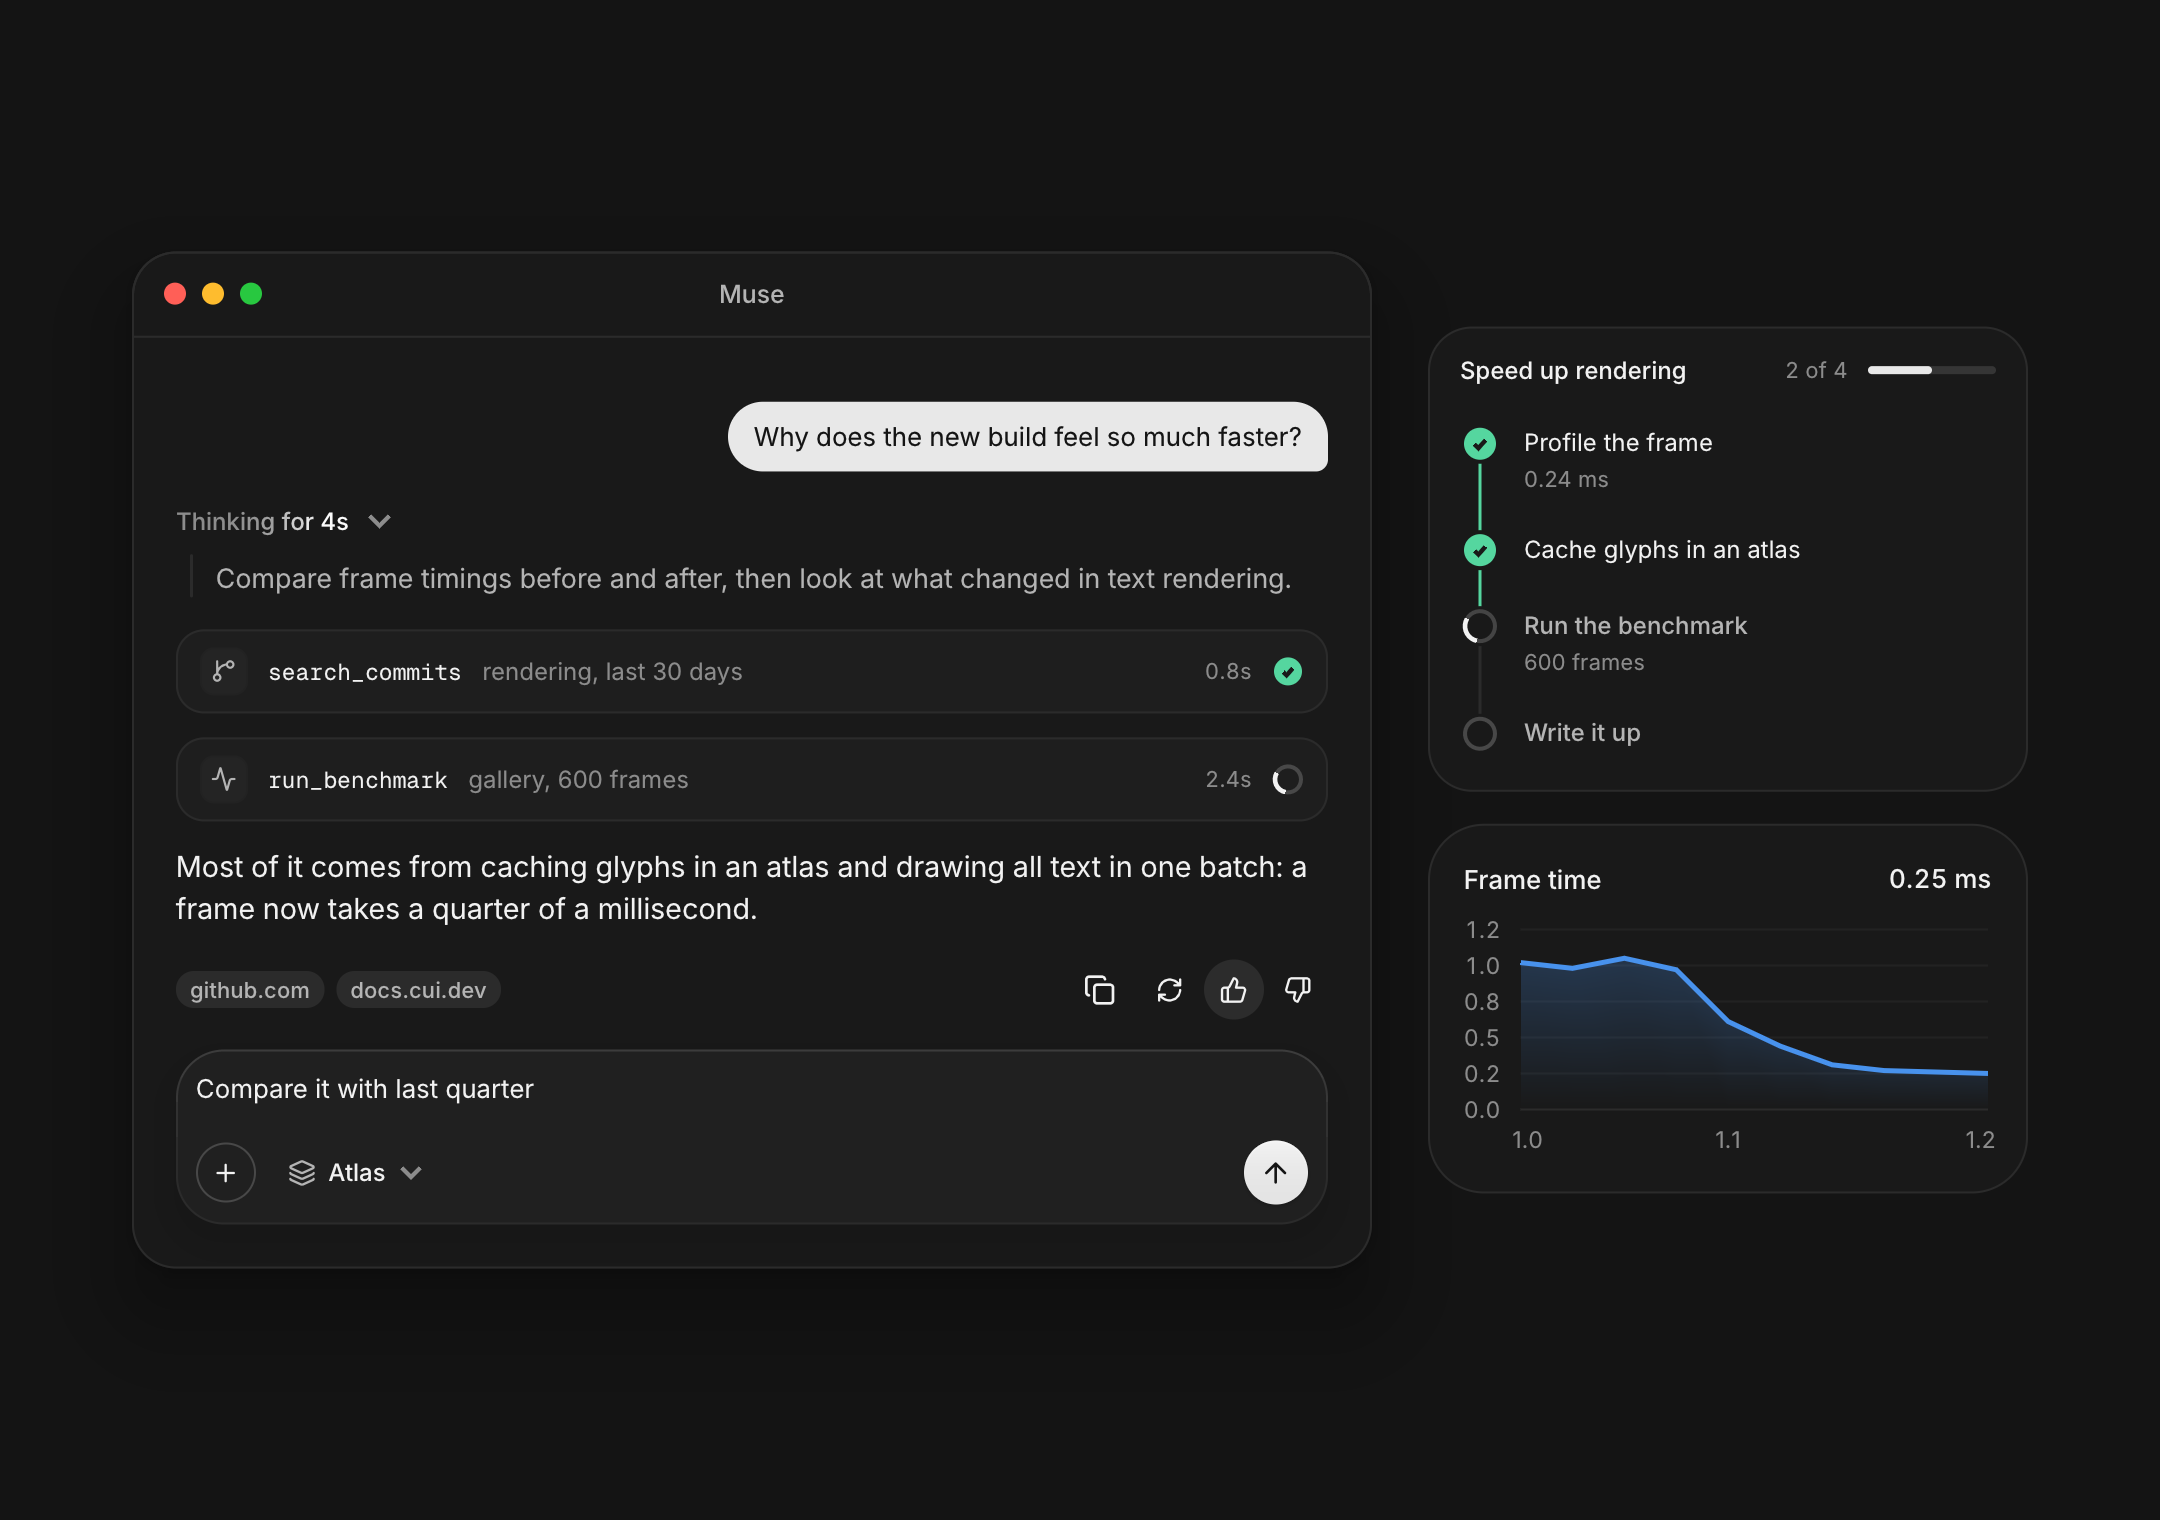
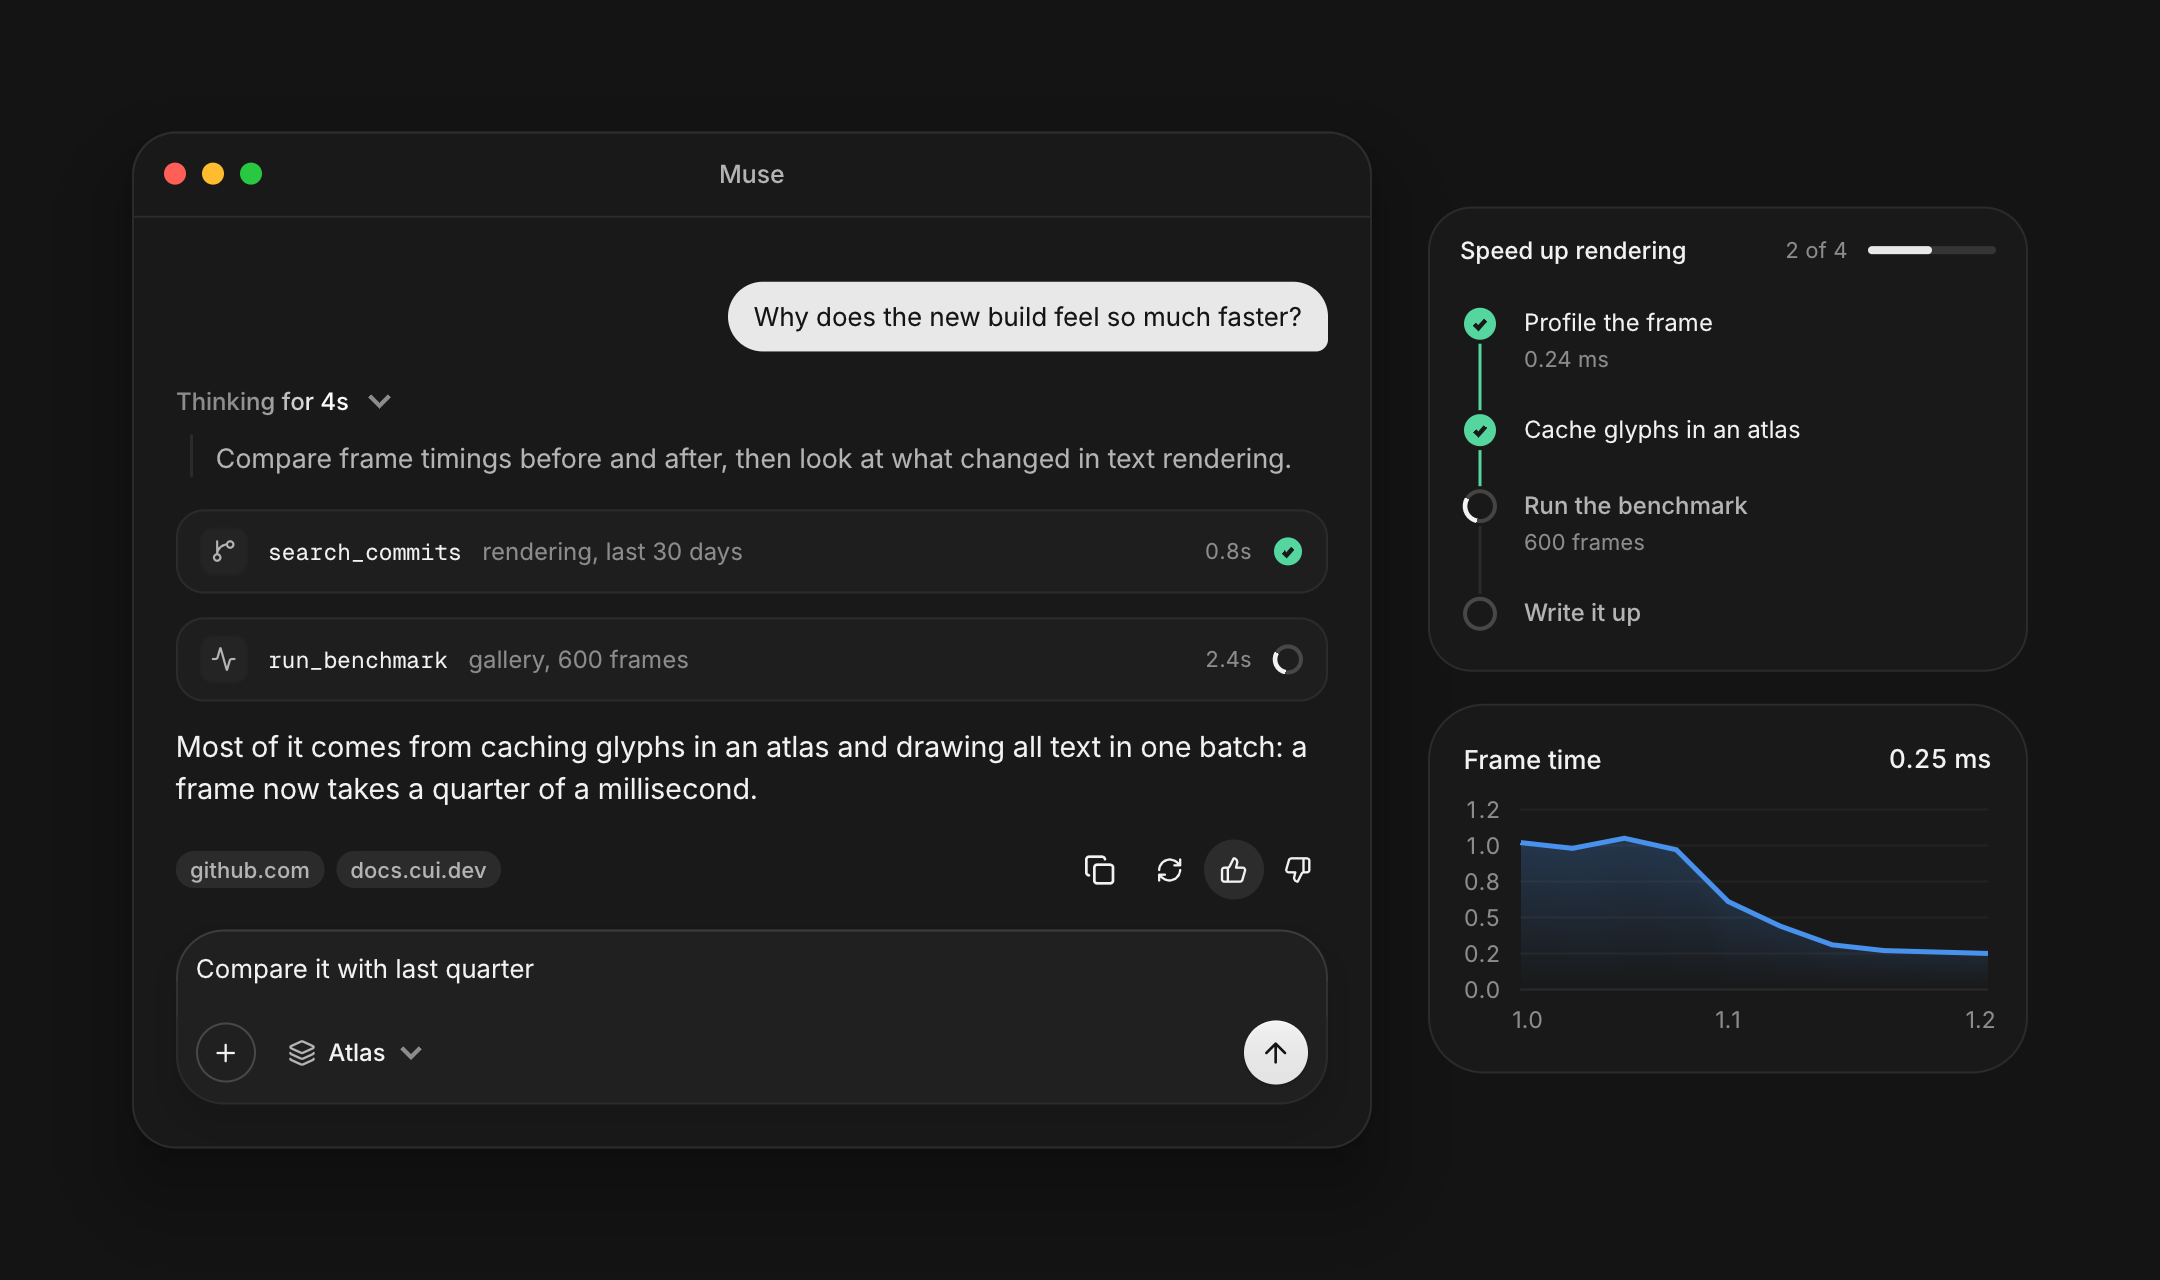
Tighter crop for the README hero

diff --git a/tests/component_shots.c b/tests/component_shots.c
@@ -1774,7 +1774,7 @@ int main(int argc, char **argv) {
         { "mosaic", scene_mosaic, 1440, 900, true, true, CUI_ACCENT_BLUE },
         { "mosaic-pro", scene_mosaic_pro, 1440, 900, true, true, CUI_ACCENT_GREEN },
         { "hero-board", scene_hero_board, 1000, 600, true, false, CUI_ACCENT_NEUTRAL },
-        { "hero-ai", scene_hero_ai, 1080, 760, true, false, CUI_ACCENT_NEUTRAL },
+        { "hero-ai", scene_hero_ai, 1080, 640, true, false, CUI_ACCENT_NEUTRAL },
         { "hero-desk", scene_hero_desk, 1000, 600, true, false, CUI_ACCENT_NEUTRAL },
         { "hero-pick", scene_hero_pick, 1160, 560, true, false, CUI_ACCENT_NEUTRAL },
         { "hero-palette", scene_hero_palette, 900, 520, true, false, CUI_ACCENT_NEUTRAL },
